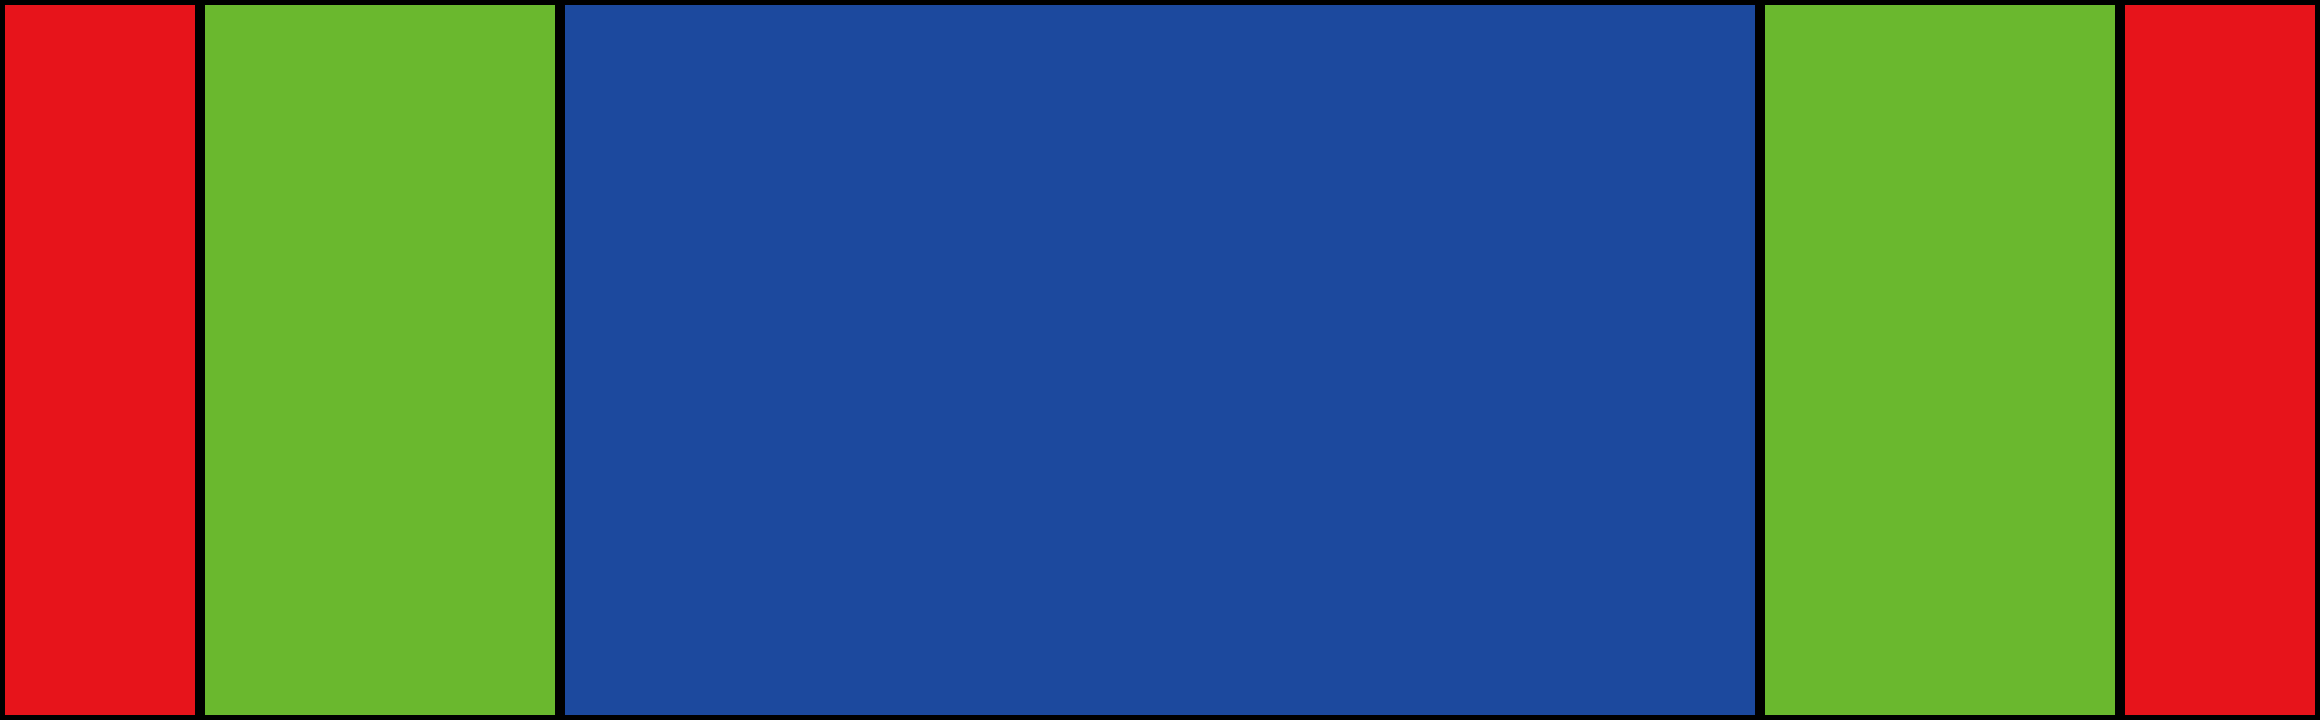
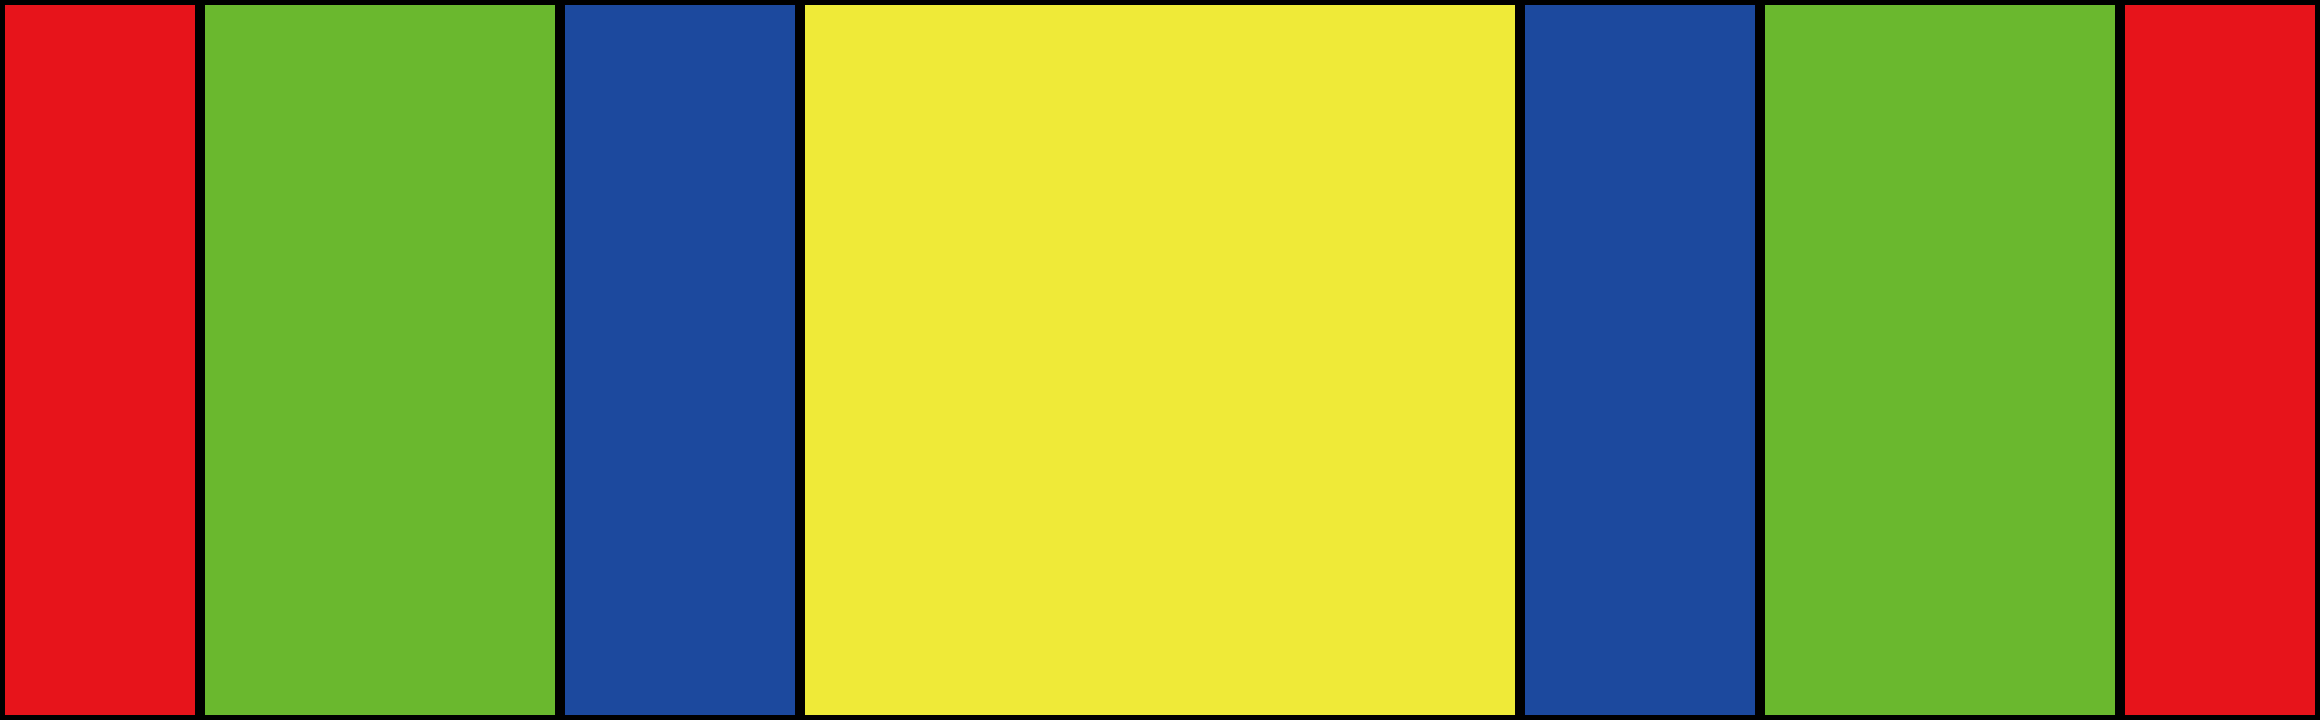
tvOSのテスト画像を変更

diff --git a/spec/generator_spec.rb b/spec/generator_spec.rb
@@ -47,7 +47,9 @@ RSpec.describe Appiconset::Generator do # rubocop:disable Metrics/BlockLength
     assert_size('favicon/icon_24x24.png', [24, 24])
     assert_size('favicon/icon_16x16.png', [16, 16])
 
-    expect(File.exist?("#{output_dir}Icon.icns")).to be true if RbConfig::CONFIG['host_os'].match(/darwin|mac os/)
+    if RbConfig::CONFIG['host_os'].match(/darwin|mac os/)
+      expect(File.exist?("#{output_dir}icns.iconset/Icon.icns")).to be true
+    end
   end
 
   it 'any_platforms' do
@@ -75,7 +77,8 @@ RSpec.describe Appiconset::Generator do # rubocop:disable Metrics/BlockLength
     assert_size('tv-top-shelf-wide/Icon@2x.png', [4640, 1440])
 
     assert_size('tv-appstore/Icon@1x.png', [1280, 768])
-    assert_size('tv-appstore/Icon-1024@1x.png', [1024, 1024])
+
+    assert_size('tv-1024x1024/Icon@1x.png', [1024, 1024])
   end
 
   private

diff --git a/lib/appiconset/generator.rb b/lib/appiconset/generator.rb
@@ -117,8 +117,14 @@ module Appiconset
           name: 'tv-appstore',
           size: [4640, 1440],
           contents: [
-            { width: 1280, height: 768, name: 'Icon@1x.png' },
-            { width: 1024, height: 1024, name: 'Icon-1024@1x.png' }
+            { width: 1280, height: 768, name: 'Icon@1x.png' }
+          ]
+        },
+        {
+          name: 'tv-1024x1024',
+          size: [4640, 1440],
+          contents: [
+            { width: 1024, height: 1024, name: 'Icon@1x.png' }
           ]
         }
       ]

diff --git a/README.base.md b/README.base.md
@@ -3,7 +3,7 @@
 <!-- no suffix: en -->
 <!---------------------------->
 
-<!-- $ mmg README.base.md -->
+<!-- $ mmg -y README.base.md -->
 
 <!-- [ja] -->
 
@@ -51,6 +51,7 @@ tvOSアプリ向けのアイコンを作成するには。4640px x 1440px の画
 
 | ディレクトリの名前 | サイズ | 画像 |
 |--|--|--|
+| tv-1024x1024 | 1024x1024 | ![tv-1024x1024](sample/tv-1024x1024/Icon@1x.png) |
 | tv | 400x1440 | ![tv](sample/tv/Icon@2x.png) |
 | tv-appstore | 1280x768 | ![tv-appstore](sample/tv-appstore/Icon@1x.png) |
 | tv-top-shelf | 3840x1440 | ![tv-top-shelf](sample/tv-top-shelf/Icon@2x.png)|
@@ -106,6 +107,7 @@ The input image is the same as tv-top-shelf-wide, tv-top-shelf is the image from
 
 | Directory name | Size | Image |
 |--|--|--|
+| tv-1024x1024 | 1024x1024 | ![tv-1024x1024](sample/tv-1024x1024/Icon@1x.png) |
 | tv | 400x1440 | ![tv](sample/tv/Icon@2x.png) |
 | tv-appstore | 1280x768 | ![tv-appstore](sample/tv-appstore/Icon@1x.png) |
 | tv-top-shelf | 3840x1440 | ![tv-top-shelf](sample/tv-top-shelf/Icon@2x.png)|

diff --git a/README.ja.md b/README.ja.md
@@ -45,6 +45,7 @@ tvOSアプリ向けのアイコンを作成するには。4640px x 1440px の画
 
 | ディレクトリの名前 | サイズ | 画像 |
 |--|--|--|
+| tv-1024x1024 | 1024x1024 | ![tv-1024x1024](sample/tv-1024x1024/Icon@1x.png) |
 | tv | 400x1440 | ![tv](sample/tv/Icon@2x.png) |
 | tv-appstore | 1280x768 | ![tv-appstore](sample/tv-appstore/Icon@1x.png) |
 | tv-top-shelf | 3840x1440 | ![tv-top-shelf](sample/tv-top-shelf/Icon@2x.png)|

diff --git a/README.md b/README.md
@@ -45,6 +45,7 @@ The input image is the same as tv-top-shelf-wide, tv-top-shelf is the image from
 
 | Directory name | Size | Image |
 |--|--|--|
+| tv-1024x1024 | 1024x1024 | ![tv-1024x1024](sample/tv-1024x1024/Icon@1x.png) |
 | tv | 400x1440 | ![tv](sample/tv/Icon@2x.png) |
 | tv-appstore | 1280x768 | ![tv-appstore](sample/tv-appstore/Icon@1x.png) |
 | tv-top-shelf | 3840x1440 | ![tv-top-shelf](sample/tv-top-shelf/Icon@2x.png)|
